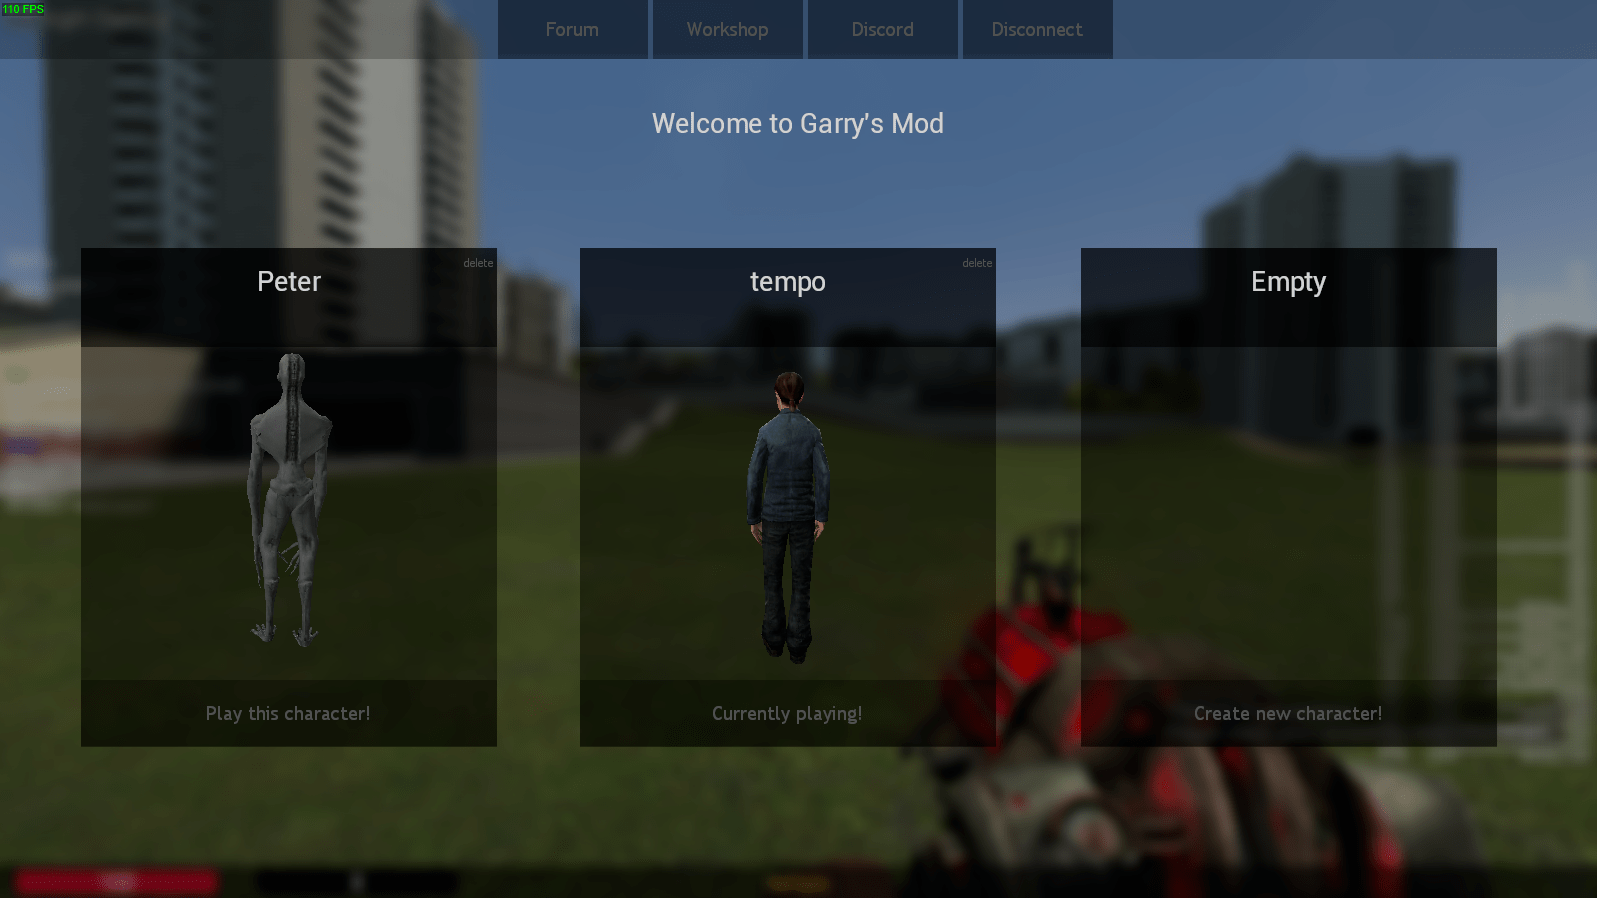
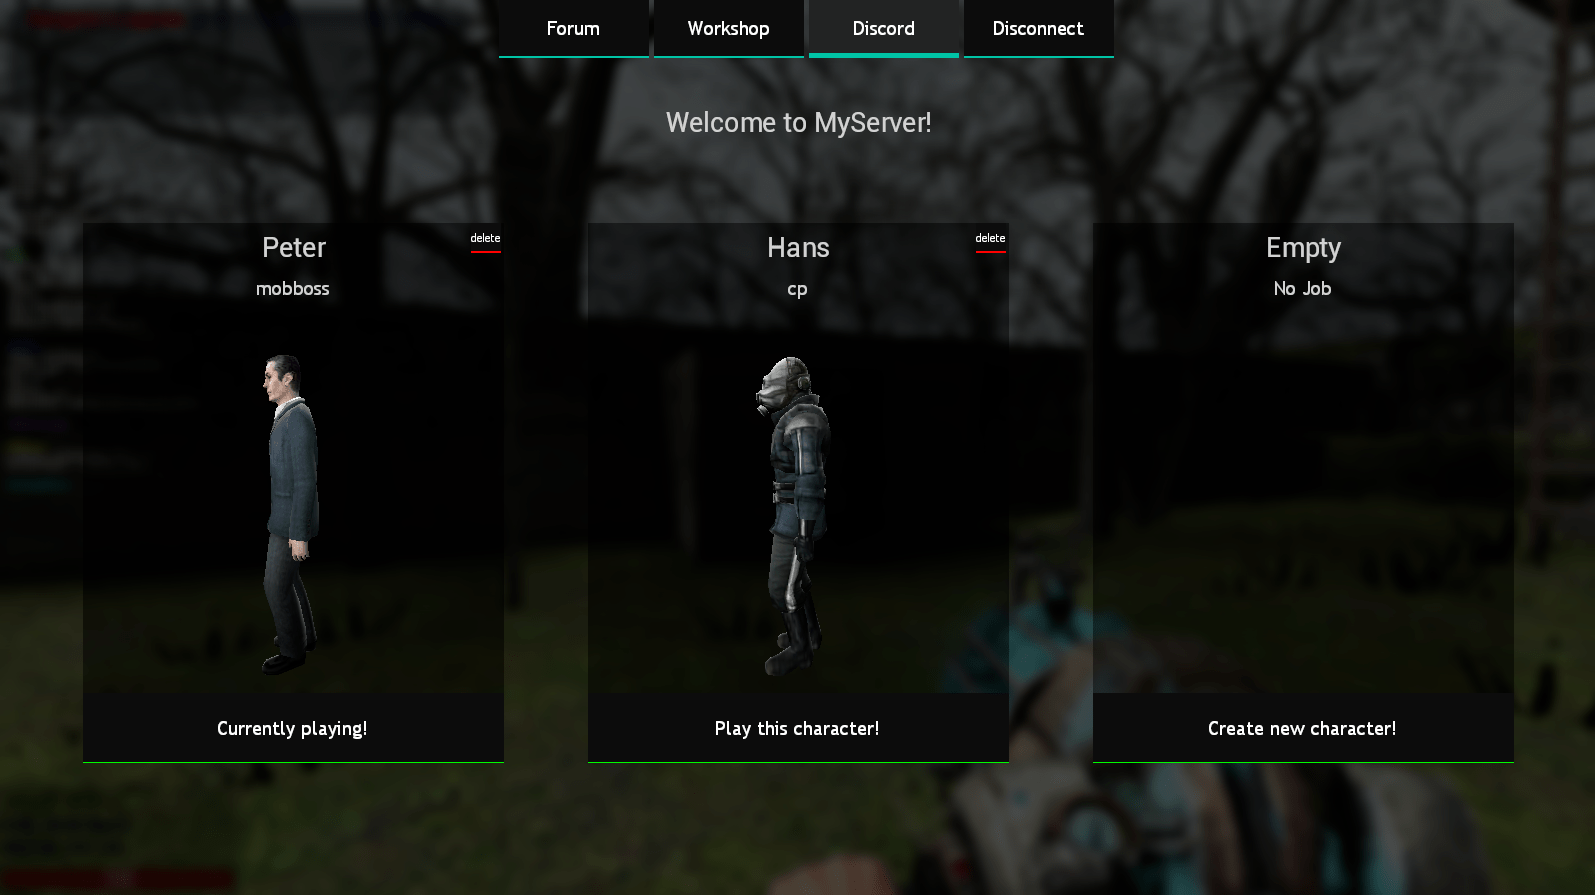
[luctus] Added char and exams, updated chat

diff --git a/luctus_at/darkrp.html b/luctus_at/darkrp.html
@@ -178,7 +178,8 @@
                     ["Luctus HUD","A simple, fully functional HUD with ammo display and agenda support","files/luctus_hud.zip","images/luctus_hud.png"],
                     ["Luctus Propblacklist","A handpicked 1000+ props blacklist. Contains HL2, Gmod and CSS props that users could use to troll","files/luctus_propblacklist.zip","images/luctus_propblacklist.png"],
                     ["Luctus Jobranks","A fast jobranksystem that simply works and is easy to configure","files/luctus_jobranks.zip","images/luctus_jobranks.png"],
-                    ["Lucid Chat","A simple chatbox with previous-message features and tab-to-advert shortcut","files/lucid_chat.zip","images/lucid_chat.png"],
+                    ["Luctus Chat","A simple chatbox with previous-message features and tab-to-advert shortcut","files/luctus_chat.zip","images/luctus_chat.png"],
+                    ["Luctus Char","Character menu which can also have a picture in the background","files/luctus_char.zip","images/luctus_char.png"],
                     ["Luctus MOTD","A window that opens when you join the server, made to display rules and other links","files/luctus_motd.zip","images/luctus_motd.png"],
                     ["Luctus F4menu","A simple, one-file F4 menu that just works","files/luctus_f4menu.zip","images/luctus_f4menu.png"],
                     ["Luctus Warn","A warning system that should be enough for everyone","files/luctus_warn.zip","images/luctus_warn.png"],

diff --git a/luctus_at/scprp.html b/luctus_at/scprp.html
@@ -180,6 +180,7 @@
                     ["Luctus SCP 966","Slow players by looking at them. LMB to make them sleep, LMB to kill, eat and heal from sleeping players (+Open doors with RMB)","files/scp_966.zip","images/scp_966.mp4"],
                     ["Luctus Activityplan","An activity plan for d-class players","files/luctus_activityplan.zip","images/luctus_activityplan.png"],
                     ["Luctus Code","A small box in the top right showing the current code (red,yellow,green)","files/luctus_code.zip","images/luctus_code.png"],
+                    ["Luctus Exams","Create ingame exams that can e.g. whitelist a player after passing it","files/luctus_exams.zip","images/luctus_exam.png"],
                     ["Luctus SCP Names","A window whenever you change jobs to set your job-name (saves after change)","files/luctus_scp_names.zip","images/luctus_scp_names.png"],
                     ["Luctus Research","An SCPRP addon for researchers to write down notes","files/luctus_research.zip","images/luctus_research.png"],
                     ["Luctus Jobnumbers","Give Jobs a name-prefix with random numbers. Can be set with !setid <name> <number>.","files/luctus_jobnumbers.zip","images/luctus_jobnumbers.png"],
